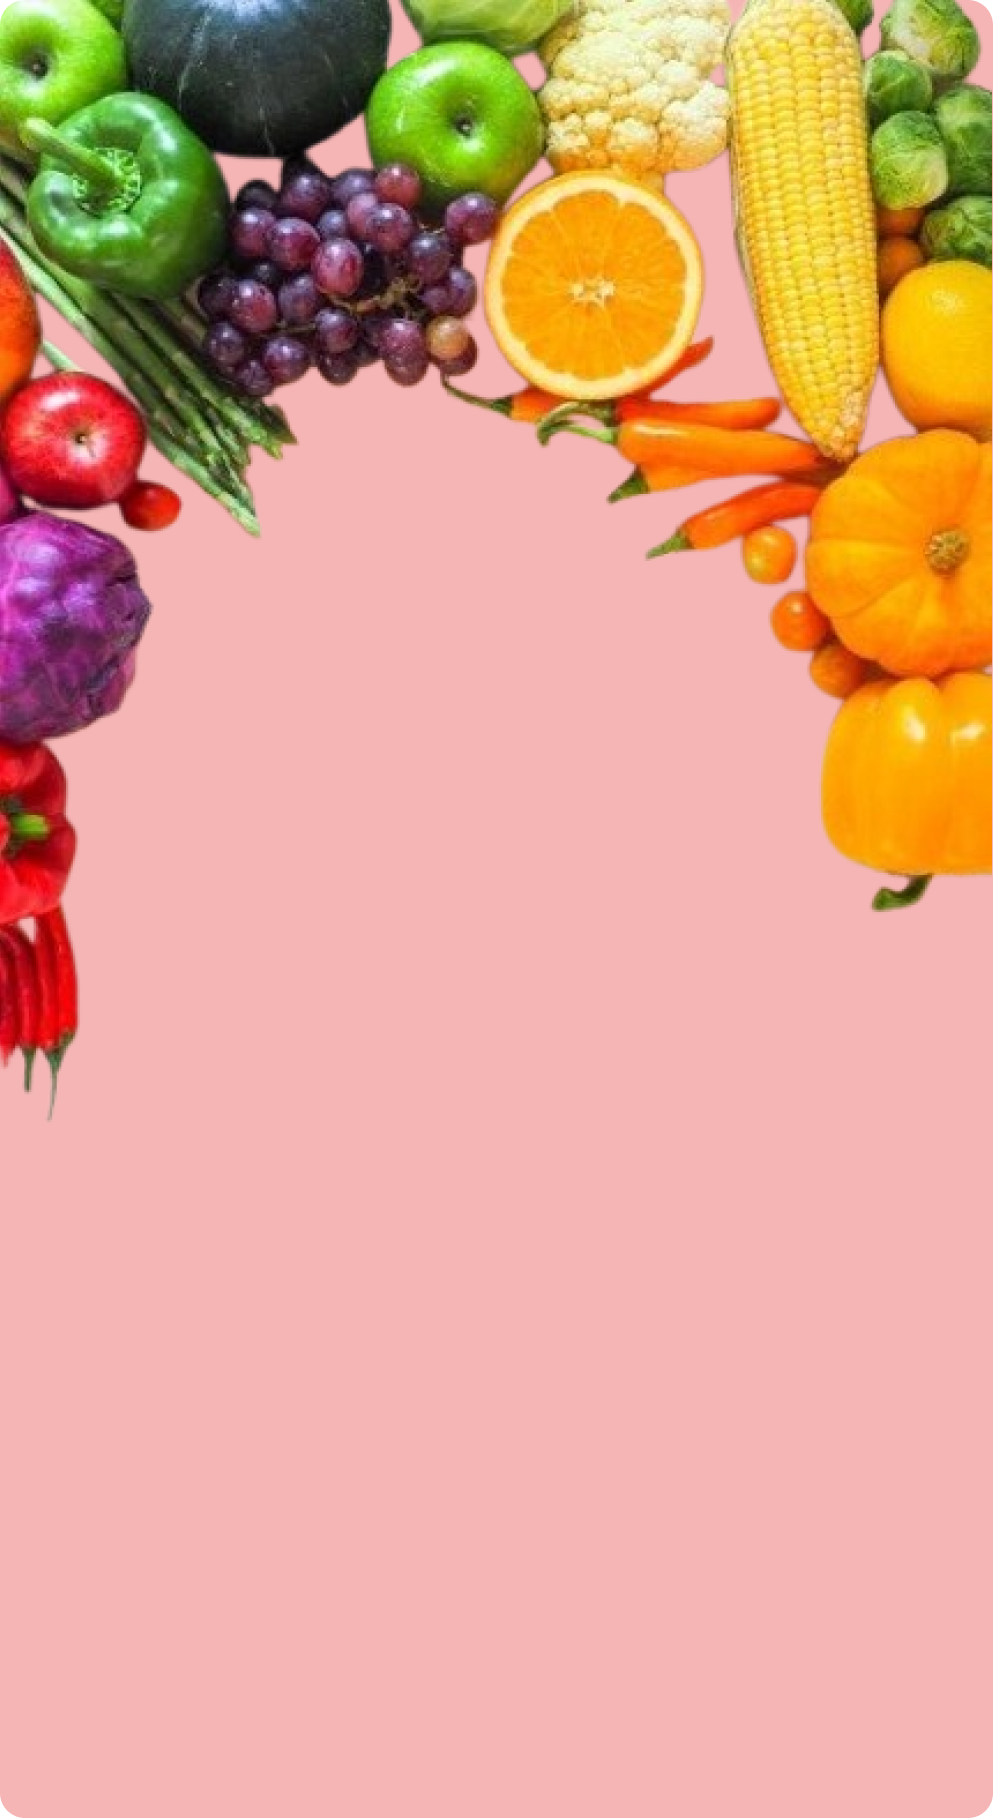
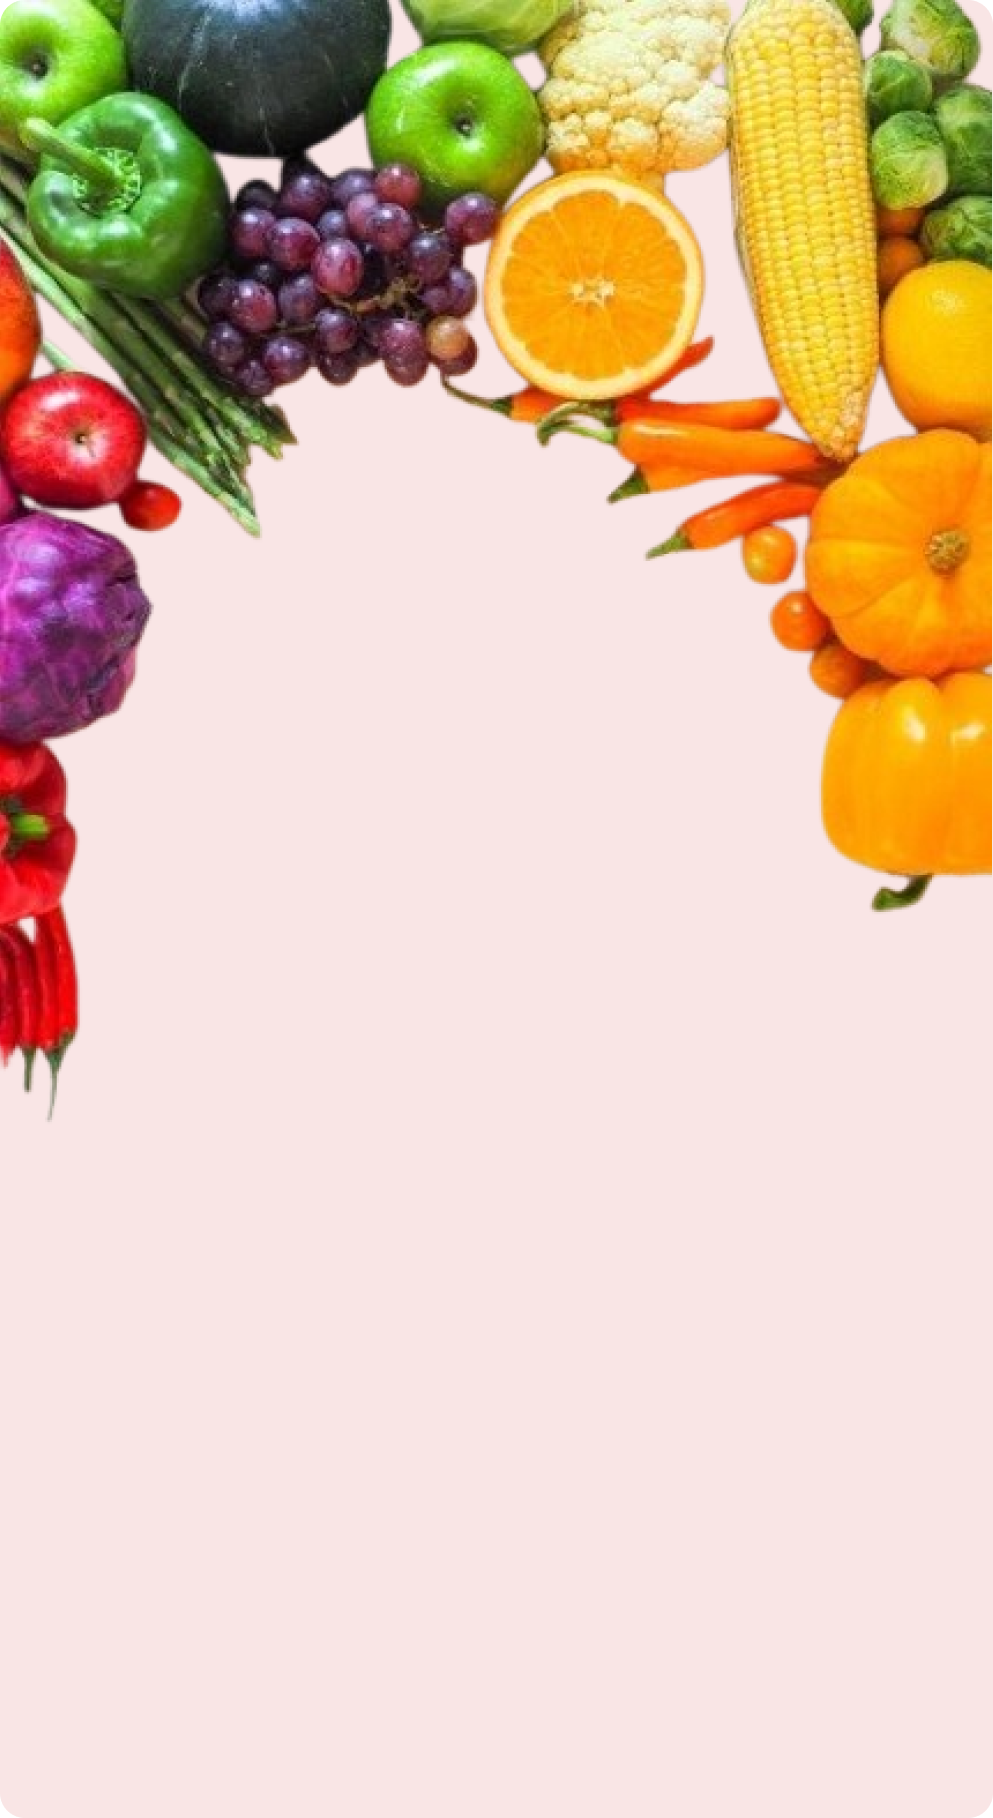
Updated asset files and optimized image resources

diff --git a/Client/src/assets/assets.js b/Client/src/assets/assets.js
@@ -15,11 +15,15 @@ import upload_area from "./upload_area.png";
 import profile_icon from "./profile_icon.png";
 import menu_icon from "./menu_icon.svg";
 import delivery_truck_icon from "./delivery_truck_icon.svg";
+import Delivery_Truck from "./Delivery_Truck.png";
 import leaf_icon from "./leaf_icon.svg";
+import Leaf from "./Leaf.png";
 import coin_icon from "./coin_icon.svg";
+import Coin from "./Coin.png";
 import box_icon from "./box_icon.svg";
 import Box_Icon from "./Box_Icon.png";
 import trust_icon from "./trust_icon.svg";
+import Trust from "./Trust.png";
 import black_arrow_icon from "./black_arrow_icon.svg";
 import white_arrow_icon from "./white_arrow_icon.svg";
 import main_banner_bg from "./main_banner_bg.png";
@@ -27,28 +31,30 @@ import Main_Banner from "./Main_Banner.png";
 import main_banner_bg_sm from "./main_banner_bg_sm.png";
 import Main_Banner_Small from "./Main_Banner_Small.png";
 import bottom_banner_image from "./bottom_banner_image.png";
+import Bottom_Banner from "./Bottom_Banner.png";
 import bottom_banner_image_sm from "./bottom_banner_image_sm.png";
+import Bottom_Banner_Small from "./Bottom_Banner_Small.png";
 import add_address_iamge from "./add_address_image.svg";
-// import organic_vegitable_image from "./organic_vegitable_image.png";
-// import fresh_fruits_image from "./fresh_fruits_image.png";
-// import bottles_image from "./bottles_image.png";
+import organic_vegitable_image from "./organic_vegitable_image.png";
+import fresh_fruits_image from "./fresh_fruits_image.png";
+import bottles_image from "./bottles_image.png";
 import maggi_image from "./maggi_image.png";
-// import dairy_product_image from "./dairy_product_image.png";
-// import bakeries_image from "./bakeries_image.png";
-// import grain_image from "./grain_image.png";
+import dairy_product_image from "./dairy_product_image.png";
+import bakeries_image from "./bakeries_image.png";
+import grain_image from "./grain_image.png";
 
-import Fruits_Image from "./Fruits_Image.png";
-import Vegetables_Image from "./Vegetables_Image.png";
-import Dairy_Image from "./Dairy_Image.png";
-import Bakery_Image from "./Bakery_Image.png";
-import Meat_Seafood_Image from "./Meat_Seafood_Image.png";
-import Beverages_Image from "./Beverages_Image.png";
-import Snacks_Image from "./Snacks_Image.png";
-import Grains_Rice_Image from "./Grains_Rice_Image.png";
-import Oils_Sauces_Image from "./Oils_Sauces_Image.png";
-import Personal_Care_Image from "./Personal_Care_Image.png";
-import Instant_Food_Image from "./Instant_Food_Image.png";
-import Spices_Herbs_Image from "./Spices_Herbs_Image.png";
+// import Fruits_Image from "./Fruits_Image.png";
+// import Vegetables_Image from "./Vegetables_Image.png";
+// import Dairy_Image from "./Dairy_Image.png";
+// import Bakery_Image from "./Bakery_Image.png";
+// import Meat_Seafood_Image from "./Meat_Seafood_Image.png";
+// import Beverages_Image from "./Beverages_Image.png";
+// import Snacks_Image from "./Snacks_Image.png";
+// import Grains_Rice_Image from "./Grains_Rice_Image.png";
+// import Oils_Sauces_Image from "./Oils_Sauces_Image.png";
+// import Personal_Care_Image from "./Personal_Care_Image.png";
+// import Instant_Food_Image from "./Instant_Food_Image.png";
+// import Spices_Herbs_Image from "./Spices_Herbs_Image.png";
 
 import potato_image_1 from "./potato_image_1.png";
 import potato_image_2 from "./potato_image_2.png";
@@ -106,9 +112,13 @@ export const assets = {
   profile_icon,
   menu_icon,
   delivery_truck_icon,
+  Delivery_Truck,
   leaf_icon,
+  Leaf,
   coin_icon,
+  Coin,
   trust_icon,
+  Trust,
   black_arrow_icon,
   white_arrow_icon,
   main_banner_bg,
@@ -116,131 +126,133 @@ export const assets = {
   main_banner_bg_sm,
   Main_Banner_Small,
   bottom_banner_image,
+  Bottom_Banner,
   bottom_banner_image_sm,
+  Bottom_Banner_Small,
   add_address_iamge,
   box_icon,
   Box_Icon,
 };
 
-// export const categories = [
-//   {
-//     text: "Organic veggies",
-//     path: "Vegetables",
-//     image: organic_vegitable_image,
-//     bgColor: "#FEF6DA",
-//   },
-//   {
-//     text: "Fresh Fruits",
-//     path: "Fruits",
-//     image: fresh_fruits_image,
-//     bgColor: "#FEE0E0",
-//   },
-//   {
-//     text: "Cold Drinks",
-//     path: "Drinks",
-//     image: bottles_image,
-//     bgColor: "#F0F5DE",
-//   },
-//   {
-//     text: "Instant Food",
-//     path: "Instant",
-//     image: maggi_image,
-//     bgColor: "#E1F5EC",
-//   },
-//   {
-//     text: "Dairy Products",
-//     path: "Dairy",
-//     image: dairy_product_image,
-//     bgColor: "#FEE6CD",
-//   },
-//   {
-//     text: "Bakery & Breads",
-//     path: "Bakery",
-//     image: bakeries_image,
-//     bgColor: "#E0F6FE",
-//   },
-//   {
-//     text: "Grains & Cereals",
-//     path: "Grains",
-//     image: grain_image,
-//     bgColor: "#F1E3F9",
-//   },
-// ];
-
 export const categories = [
   {
-    text: "Fruits",
-    path: "Fruits",
-    image: Fruits_Image,
+    text: "Organic veggies",
+    path: "Vegetables",
+    image: organic_vegitable_image,
     bgColor: "#FEF6DA",
   },
   {
-    text: "Vegetables",
-    path: "Vegetables",
-    image: Vegetables_Image,
-    bgColor: "#DFF6E4",
+    text: "Fresh Fruits",
+    path: "Fruits",
+    image: fresh_fruits_image,
+    bgColor: "#FEE0E0",
   },
   {
-    text: "Dairy",
-    path: "Dairy",
-    image: Dairy_Image,
-    bgColor: "#E6F0FF",
-  },
-  {
-    text: "Bakery",
-    path: "Bakery",
-    image: Bakery_Image,
-    bgColor: "#FFF0F0",
-  },
-  {
-    text: "Meat & Seafood",
-    path: "Meat_Seafood",
-    image: Meat_Seafood_Image,
-    bgColor: "#FFE6E6",
-  },
-  {
-    text: "Beverages",
-    path: "Beverages",
-    image: Beverages_Image,
-    bgColor: "#FFF8E6",
-  },
-  {
-    text: "Snacks",
-    path: "Snacks",
-    image: Snacks_Image,
-    bgColor: "#FFF0D6",
-  },
-  {
-    text: "Grains & Rice",
-    path: "Grains_Rice",
-    image: Grains_Rice_Image,
-    bgColor: "#FFF6E6",
-  },
-  {
-    text: "Oils & Sauces",
-    path: "Oils_Sauces",
-    image: Oils_Sauces_Image,
-    bgColor: "#FFF3E6",
-  },
-  {
-    text: "Personal Care",
-    path: "Personal_Care",
-    image: Personal_Care_Image,
-    bgColor: "#E6F6FF",
+    text: "Cold Drinks",
+    path: "Drinks",
+    image: bottles_image,
+    bgColor: "#F0F5DE",
   },
   {
     text: "Instant Food",
-    path: "Instant_Food",
-    image: Instant_Food_Image,
+    path: "Instant",
+    image: maggi_image,
     bgColor: "#E1F5EC",
   },
   {
-    text: "Spices & Herbs",
-    path: "Spices_Herbs",
-    image: Spices_Herbs_Image,
-    bgColor: "#FFF2E6",
+    text: "Dairy Products",
+    path: "Dairy",
+    image: dairy_product_image,
+    bgColor: "#FEE6CD",
+  },
+  {
+    text: "Bakery & Breads",
+    path: "Bakery",
+    image: bakeries_image,
+    bgColor: "#E0F6FE",
+  },
+  {
+    text: "Grains & Cereals",
+    path: "Grains",
+    image: grain_image,
+    bgColor: "#F1E3F9",
   },
 ];
+
+// export const categories = [
+//   {
+//     text: "Fruits",
+//     path: "Fruits",
+//     image: Fruits_Image,
+//     bgColor: "#FEF6DA",
+//   },
+//   {
+//     text: "Vegetables",
+//     path: "Vegetables",
+//     image: Vegetables_Image,
+//     bgColor: "#DFF6E4",
+//   },
+//   {
+//     text: "Dairy",
+//     path: "Dairy",
+//     image: Dairy_Image,
+//     bgColor: "#E6F0FF",
+//   },
+//   {
+//     text: "Bakery",
+//     path: "Bakery",
+//     image: Bakery_Image,
+//     bgColor: "#FFF0F0",
+//   },
+//   {
+//     text: "Meat & Seafood",
+//     path: "Meat_Seafood",
+//     image: Meat_Seafood_Image,
+//     bgColor: "#FFE6E6",
+//   },
+//   {
+//     text: "Beverages",
+//     path: "Beverages",
+//     image: Beverages_Image,
+//     bgColor: "#FFF8E6",
+//   },
+//   {
+//     text: "Snacks",
+//     path: "Snacks",
+//     image: Snacks_Image,
+//     bgColor: "#FFF0D6",
+//   },
+//   {
+//     text: "Grains & Rice",
+//     path: "Grains_Rice",
+//     image: Grains_Rice_Image,
+//     bgColor: "#FFF6E6",
+//   },
+//   {
+//     text: "Oils & Sauces",
+//     path: "Oils_Sauces",
+//     image: Oils_Sauces_Image,
+//     bgColor: "#FFF3E6",
+//   },
+//   {
+//     text: "Personal Care",
+//     path: "Personal_Care",
+//     image: Personal_Care_Image,
+//     bgColor: "#E6F6FF",
+//   },
+//   {
+//     text: "Instant Food",
+//     path: "Instant_Food",
+//     image: Instant_Food_Image,
+//     bgColor: "#E1F5EC",
+//   },
+//   {
+//     text: "Spices & Herbs",
+//     path: "Spices_Herbs",
+//     image: Spices_Herbs_Image,
+//     bgColor: "#FFF2E6",
+//   },
+// ];
 
 export const footerLinks = [
   {
@@ -276,22 +288,22 @@ export const footerLinks = [
 
 export const features = [
   {
-    icon: delivery_truck_icon,
+    icon: Delivery_Truck,
     title: "Fastest Delivery",
     description: "Groceries delivered in under 30 minutes.",
   },
   {
-    icon: leaf_icon,
+    icon: Leaf,
     title: "Freshness Guaranteed",
     description: "Fresh produce straight from the source.",
   },
   {
-    icon: coin_icon,
+    icon: Coin,
     title: "Affordable Prices",
     description: "Quality groceries at unbeatable prices.",
   },
   {
-    icon: trust_icon,
+    icon: Trust,
     title: "Trusted by Thousands",
     description: "Loved by 10,000+ happy customers.",
   },
